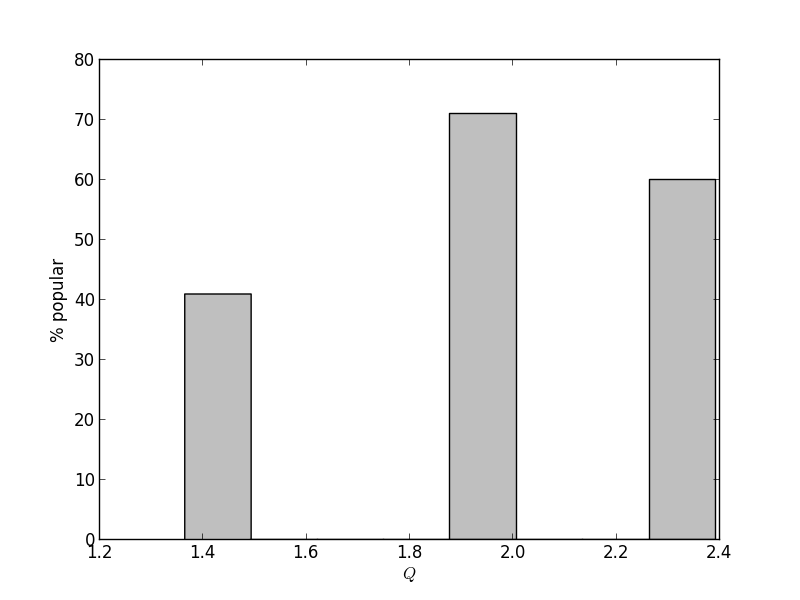
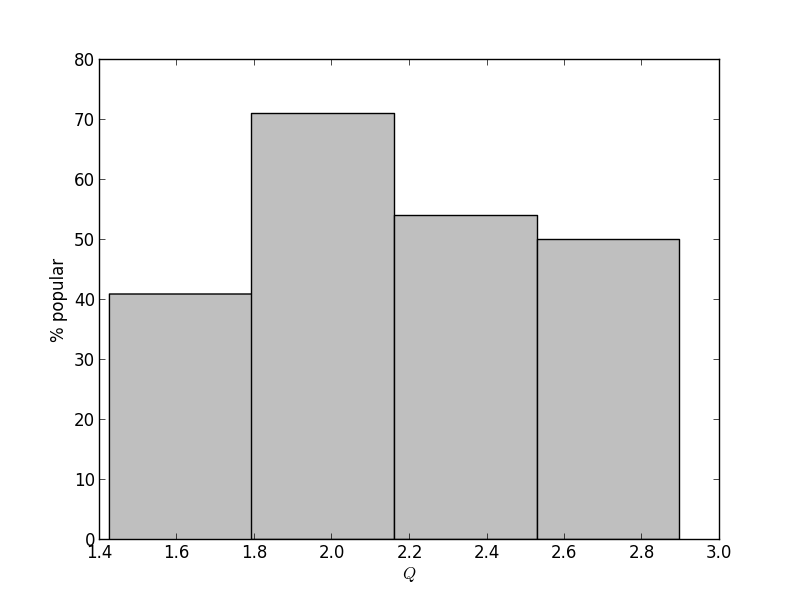
New graphs.

diff --git a/paper/main.tex b/paper/main.tex
@@ -119,14 +119,14 @@ One of the main sources of information loss is multiple connections between proj
 \subsubsection{Graph Analysis}
 To support our hypotheses, there are several key metrics to be studied in regards to the aforementioned graph. Many of these metrics follow the work of Boccaletti \textit{et. al}\cite{boccaletti2006complex}, and other studies of similar graph types\cite{latora2001efficient,adamic1999small}.
 
-\noindent\\\textit{\textbf{Clustering Coefficient - Transitivity ($C^\Delta$)}}\\
+\noindent\\\textit{\textbf{Clustering Coefficient - Transitivity ($C$)}}\\
 We calculate the \textit{Clustering Coefficient} (or $C^\Delta$) as a measure of the proportion of closed triangles in a graph\cite{newman2003structure}:
 \[C^\Delta = 3 \times \frac{\text{number of triangles}}
                     {\text{number of connected triples}}\]
 
 This metric shows us how closely related, or ``clustered,'' that the graph is. It is also the probability that two nodes will be connected if they share a common neighbor\cite{newman2003properties}. In our context, if project $P_1$ and $P_2$ share a developer with $P_3$, this metric represents the probability that $P_1$ and $P_2$ will share a developer.
 
-\noindent\\\textit{\textbf{Clustering Coefficient - Average ($\overline{C^\Delta}$)}}\\
+\noindent\\\textit{\textbf{Clustering Coefficient - Average ($\overline{C}$)}}\\
 Another approach to clustering is to take the average of each node's local clustering coefficient\cite{watts1998collective}.
 
 Given our graph of nodes $P$ connected by edges $E$, or ${G=(P,E)}$, for any given node we can determine its \textit{neighborhood} ($N_i$), or the set of nodes directly connected to a given node.
@@ -147,12 +147,6 @@ Also, calculating the \textit{Path Length} ($L$) allows us to determine how far 
 
 Where {$v_i \in P$}, {$v_j \in P$}, and {$\lambda(v_i,v_j)$} denotes the shortest path between the two nodes. We only consider path length for connected subgraphs, avoiding some complexities of this calculation on disconnected graphs\cite{boccaletti2006complex}.
 
-\noindent\\\textit{\textbf{Small World Quotient ($Q$)}}\\
-The \textit{Small World Quotient} ($Q$) is defined as the Clustering Coefficient ($C^\Delta$) divided by the  Average Path Length ($L$)\cite{watts1999small,watts1998collective}.
-
-\[Q =  \frac{C^\Delta}{L}\]
-
-Calculating $Q$ allows us to
 
 \begin{figure}
 \centering
@@ -204,8 +198,8 @@ Calculating $Q$ allows us to
 \end{figure}
 
 
-\noindent\\\textit{\textbf{Small-World-ness ($S^\Delta$)}}\\
-The definition of a \textit{small world} graph can be formalized by the following equations\cite{humphries2008network}.
+\noindent\\\textit{\textbf{Small World Quotient ($Q$)}}\\
+The definition of a \textit{small world} graph can be formalized by the following equations\cite{humphries2008network,uzzi2005collaboration}.
 
 First, let $\gamma^{\Delta}_g$ equal the ratio of the clustering coefficient of a given graph and a random graph.
 \[\gamma^{\Delta}_g = \frac{C^{\Delta}_g }{C^{\Delta}_{rand} } \]
@@ -213,10 +207,10 @@ First, let $\gamma^{\Delta}_g$ equal the ratio of the clustering coefficient of 
 Next apply a similar pattern to the average path length $\lambda_g$.
 \[\lambda_g = \frac{L_g }{L_{rand} } \]
 
-Finally, the ratio of the above calculations yields the small-world-ness, or $S^\Delta$, of the graph
-\[S^\Delta = \frac{\gamma^{\Delta}_g }{\lambda_g} \]
+Finally, the ratio of the above calculations yields the small world quotient, or $Q$, of the graph
+\[Q = \frac{\gamma^{\Delta}_g }{\lambda_g} \]
 
-We assume for throughout that any graph exhibiting $S^\Delta > 1$ is a small-world graph.
+We assume for throughout that any graph exhibiting $Qa > 1$ is a small-world graph.
 
 \noindent\\\textit{\textbf{Successful vs Unsuccessful}}\\
 To further explore the data, a comparion was made between \textit{successful} and \textit{unsuccessful} projects was made. We define \textit{successful} as any project with {$PopularityScore > 100$}, and \textit{unsuccessful} as any project with {$PopularityScore < 50$}. Given this view of the data, we can then make assertions about how we expect these types of projects to behave, given the stated hypothesis. More specifically, we can examine not only if the u-shaped curve holds for \textit{popular} projects, but if the inverse holds for \textit{unsuccessful} ones.
@@ -241,13 +235,11 @@ To further study these factors, we arranged interviews with two current professi
 
 \input{tables/subgraphs_summary}
 
-Summary statistics for the graph analysis are captured in figure \ref{fig:summary_stats}. First, $S^\Delta > 1$ is observed for both the mean and the median, which meets the criteria for a small-world network\cite{humphries2008network}.\\
+Summary statistics for the graph analysis are captured in figure \ref{fig:summary_stats}. Importantly, $Q > 1$ is observed for both the mean and the median, which meets the criteria for a small-world network\cite{humphries2008network}.\\
 
-$Q$ and $C^\Delta$ both indicate a non-normal distribution, as shown by the large standard deviation. This observation indicates a propensity towards the extremes of these measurements. This is further reinforced by the distribution of $Q$ shown in figure \ref{fig:q_distribution}. This figure indicates that the majority of subgraphs have a $Q$ and $C^\Delta$ value of close to either 0 or 1.\\
+$C$ and $\overline{C}$ both indicate values approaching 1. This observation indicates a high degree of clustering\cite{watts1998collective}. hat any indicates that the majority of subgraphs have a $Q$ and $C^\Delta$ value of close to either 0 or 1. Exploring this phenomenon further, we can derive that most graphs resemble the middle or the bottom graph in figure \ref{fig:example_graphs}, with relatively few resembling the top graph.
 
-Exploring this phenomenon further, follows that most graphs resemble the top or the middle graph in figure \ref{fig:example_graphs}, with relatively few resembling the bottom graph.
-
-To validate the hypothesis, we expect to find that medium values of $C^\Delta$ will be correlated with more popular projects. To explore this possibility, we first compare the popularity given $C^\Delta$ values as shown in figure \ref{fig:cc_graph}. The $C^\Delta$ values do display the U-shaped characteristic as compared to popularity, which aligns with the findings of Uzzi \textit{et. al}\cite{uzzi2005collaboration}. It is important to note, however that, the standard deviation is high, as shown in both \ref{fig:summary_stats} and the significant difference between the mean and median results.
+To validate the hypothesis, we expect to find that medium values of $Q$ will be correlated with more popular projects. To explore this possibility, we first compare the popularity given $Q$ values as shown in figure \ref{fig:cc_graph}. The $Q$ values do display the U-shaped characteristic as compared to popularity, which aligns with the findings of Uzzi \textit{et. al}\cite{uzzi2005collaboration}.
 
 \begin{figure}
 \begin{center}
@@ -257,28 +249,28 @@ To validate the hypothesis, we expect to find that medium values of $C^\Delta$ w
 \label{fig:cc_graph}
 \end{figure}
 
-Popular projects do appear to conform to the results found by Uzzi\cite{uzzi2005collaboration}. As show in figure \ref{fig:cc_unpopular}, $C^\Delta$ near the extremes (0.0 or 1.0) show a relatively low likelihood of being popular. As $C^\Delta$ values approach mid-range values, the probability of a project being a success increases greatly.
+Popular projects do appear to conform to the results found by Uzzi\cite{uzzi2005collaboration}. As show in figure \ref{fig:cc_popular}, $Q$ near the extremes show a relatively low likelihood of being popular. As $Q$ values approach mid-range values, the probability of a project being a success increases greatly.
 
 
 \begin{figure}
 \begin{center}
 \includegraphics[width=0.5\textwidth]{images/freecode-popular.png}
 \end{center}
-\caption{$C^\Delta$ of Popular Projects}
+\caption{$Q$ of Popular Projects}
 \label{fig:cc_popular}
 \end{figure}
 
-The inverse is true of unpopular projects. As $C^\Delta$ near the extremes (0.0 or 1.0), a high probability of being unsuccessful is observed. Mid-valued $C^\Delta$ values indicate a substantially lower probability of being unsuccessful.
+The inverse is true of unpopular projects. As $Q$ near the extremes, a high probability of being unsuccessful is observed. Mid-valued $Q$ values indicate a substantially lower probability of being unsuccessful.
 
 \begin{figure}
 \begin{center}
 \includegraphics[width=0.5\textwidth]{images/freecode-unpopular.png}
 \end{center}
-\caption{$C^\Delta$ of Unpopular Projects}
+\caption{$Q$ of Unpopular Projects}
 \label{fig:cc_unpopular}
 \end{figure}
 
-Distribution of $Q$ values are shown in figure\ref{fig:q_distribution}. This indicates that the majority of sub-graphs have a $Q$ value near either 0.0 or 1.0. 
+Distribution of $Q$ values are shown in figure\ref{fig:q_distribution}. The values of $Q$ generally follow a power-law distribution, with most values being at our around $Q = 1$. This indicates that many graphs are close to the delineation of being considered small-world\cite{humphries2008network}.
 
 
 \begin{figure}

diff --git a/code/analyze_graph.py b/code/analyze_graph.py
@@ -151,17 +151,17 @@ def graph(name, data, popularity):
 
         popularity_score.append(avg_popularity)
 
-    bins = np.linspace(min(q),max(q), num=8)
-    values = [[] for _ in bins]
+    q_bins = np.linspace(min(q),max(q), num=8)
+    q_values = [[] for _ in q_bins]
 
-    idxs = np.digitize(q, bins, right=True)
+    q_idxs = np.digitize(q, q_bins, right=True)
 
-    for idx,score in zip(idxs,popularity_score):
-        values[idx].append(score)
+    for idx,score in zip(q_idxs,popularity_score):
+        q_values[idx].append(score)
 
-    create_graph(name, bins, values)
+    create_graph(name, q_bins, q_values)
     create_histogram(name + "-q", "$Q$", q, log_y_scale=True)
-    highest_performing(name, bins, values)
+    highest_performing(name, q_bins, q_values)
 
     total_projects = len(set(sum(contributors.values(), [])))
 
@@ -197,7 +197,7 @@ def highest_performing(filename, bins, values):
     unpopular_bins = []
 
     for bin,value in zip(bins,values):
-        if len(value) < 5: continue
+        if len(value) < 3: continue
         popular_repos = len([v for v in value if v > 100])
         unpopular_repos = len([v for v in value if v < 100 ])
         print str(bin) + " " + str(popular_repos) + " " + str(unpopular_repos) + " " + str(len(value))
@@ -208,7 +208,7 @@ def highest_performing(filename, bins, values):
 
     for name, data in zip(["popular","unpopular"], [popular_bins,unpopular_bins]):
         fig = plt.figure()
-        plt.hist(data, len(bins), color="0.75")
+        plt.hist(data, 4, color="0.75")
         plt.xlabel("$Q$")
         plt.ylabel("% " + name)
         F = plt.gcf()

diff --git a/paper/tables/subgraphs_summary.tex b/paper/tables/subgraphs_summary.tex
@@ -3,15 +3,15 @@
 \textbf{Statistics} }\begin{tabular} {@{} l r  r  r  r  r  r  @{}} \\ \hline
 \textbf{Statistic} & \textbf{Mean} & \textbf{Med} & \textbf{Max} & \textbf{Min} & \textbf{Std} \\ 
 \hline
-$\overline{C}$ & 0.87 & 1.0 & 1.0 & 0.14 & 0.23 \\ 
-$L$ & 1.09 & 1.0 & 2.24 & 1.0 & 0.2 \\ 
-$C$ & 0.93 & 1.0 & 1.0 & 0.24 & 0.16 \\ 
-Popularity & 179.56 & 90.15 & 3978.95 & 9.49 & 375.18 \\ 
-$Q$ & 1.34 & 1.0 & 4.45 & 0.85 & 0.68 \\ 
+$\overline{C}$ & 0.85 & 1.0 & 1.0 & 0.14 & 0.25 \\ 
+$L$ & 1.11 & 1.0 & 2.02 & 1.0 & 0.23 \\ 
+$C$ & 0.91 & 1.0 & 1.0 & 0.32 & 0.17 \\ 
+Popularity & 178.9 & 88.48 & 3978.95 & 9.49 & 369.41 \\ 
+$Q$ & 1.36 & 1.0 & 4.37 & 0.93 & 0.68 \\ 
 Edges & 5.34 & 3.0 & 78.0 & 2.0 & 7.48 \\ 
 Nodes & 4.06 & 3.0 & 16.0 & 3.0 & 2.12 \\ 
 \hline
 \multicolumn{6}{@{}l}{
-Projects: 41121, Subgraphs: 147, Contributors: 21970}
+Projects: 41121, Subgraphs: 152, Contributors: 21970}
 \end{tabular}
 \end{table}
